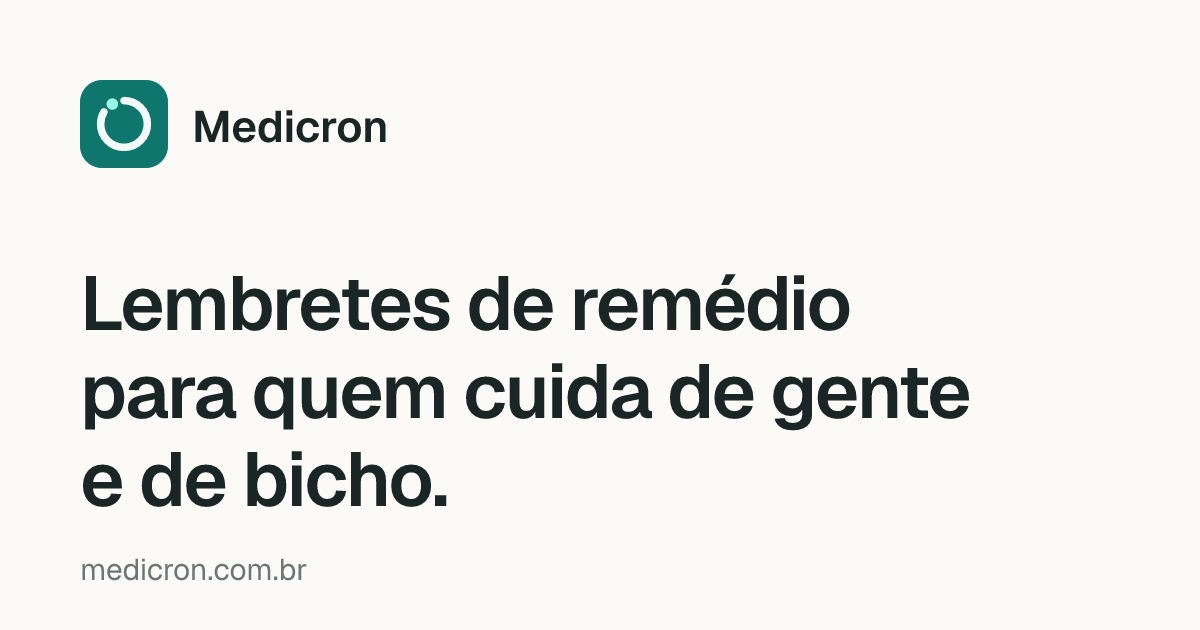
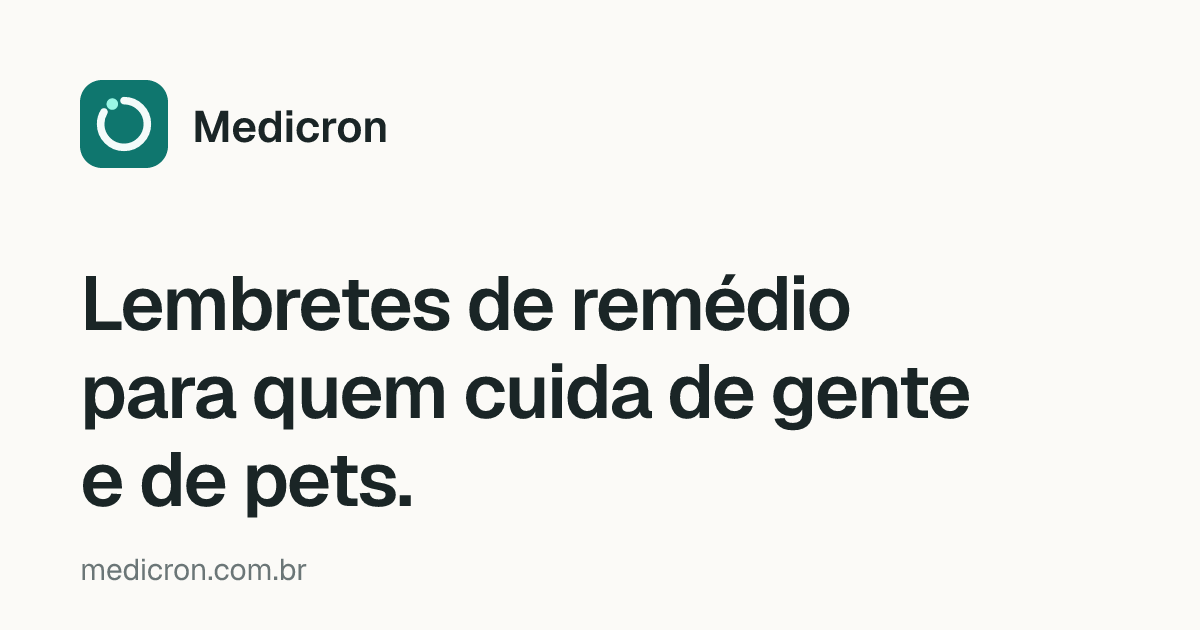
feat(app): botão Entrar em contorno com ícone; 'bicho' vira 'pets'

Changed region(s): [[0.2467, 0.7238, 0.37, 0.8143], [0.185, 0.7841, 0.2158, 0.8143], [0.185, 0.7238, 0.2158, 0.754]]

diff --git a/apps/app/site/index.template.html b/apps/app/site/index.template.html
@@ -17,7 +17,7 @@
 <meta property="og:image" content="{{ORIGIN}}/landing/og.png">
 <meta property="og:image:width" content="1200">
 <meta property="og:image:height" content="630">
-<meta property="og:image:alt" content="Medicron: lembretes de remédio para quem cuida de gente e de bicho.">
+<meta property="og:image:alt" content="Medicron: lembretes de remédio para quem cuida de gente e de pets.">
 <meta name="twitter:card" content="summary_large_image">
 <script type="application/ld+json">{{JSONLD}}</script>
 <link rel="icon" href="/favicon.ico">
@@ -29,12 +29,12 @@
 <a class="skip" href="#conteudo">Pular para o conteúdo</a>
 <header class="top">
   <a class="mark" href="/" aria-label="Medicron, página inicial"><svg viewBox="0 0 64 64" fill="none" aria-hidden="true"><rect width="64" height="64" rx="16" fill="var(--primary)"/><circle cx="32" cy="32" r="17" stroke="var(--primary-foreground)" stroke-width="5.5" stroke-linecap="round" stroke-dasharray="89 18" transform="rotate(-90 32 32)"/><circle cx="23.5" cy="17.5" r="4.2" fill="#99f6e4"/></svg><span>Medicron</span></a>
-  <a class="lnk" href="/entrar">Entrar</a>
+  <a class="enter" href="/entrar"><svg viewBox="0 0 24 24" fill="none" stroke="currentColor" stroke-width="2" stroke-linecap="round" stroke-linejoin="round" aria-hidden="true"><path d="M15 3h4a2 2 0 0 1 2 2v14a2 2 0 0 1-2 2h-4"/><path d="m10 17 5-5-5-5"/><path d="M15 12H3"/></svg><span>Entrar</span></a>
 </header>
 <main id="conteudo">
   <section class="hero">
     <div class="hero-text">
-      <h1>Lembretes de remédio para quem cuida de gente e de bicho.</h1>
+      <h1>Lembretes de remédio para quem cuida de gente e de pets.</h1>
       <p class="lead">O Medicron avisa na hora de cada dose e mostra para a família inteira o que já foi dado, para ninguém esquecer nem repetir.</p>
       <p class="actions"><a class="btn" href="/cadastrar">Criar conta</a><a class="lnk" href="/entrar">Já tenho conta →</a></p>
       <p class="small">{{AVAILABILITY}}</p>{{STORES}}

diff --git a/apps/app/tests/site.test.ts b/apps/app/tests/site.test.ts
@@ -12,7 +12,7 @@ describe("conteúdo (texto exato da spec)", () => {
   const h = html();
   test("título, texto e rótulos", () => {
     for (const t of [
-      "Lembretes de remédio para quem cuida de gente e de bicho.",
+      "Lembretes de remédio para quem cuida de gente e de pets.",
       "O Medicron avisa na hora de cada dose e mostra para a família inteira o que já foi dado, para ninguém esquecer nem repetir.",
       "Criar conta", "Já tenho conta →", "Em poucas palavras",
       "O Medicron é um organizador de lembretes. Não faz diagnóstico nem indica doses ou tratamentos: siga a orientação do seu médico ou veterinário.",
@@ -173,5 +173,15 @@ describe("buildSite", () => {
       expect(fs.statSync(file).size).toBeGreaterThan(1000);
       expect(fs.statSync(file).size).toBeLessThanOrEqual(40 * 1024);
     }
+  });
+});
+
+describe("texto e botão do topo", () => {
+  const h = renderSite({}, loadSources(path.resolve(__dirname, "..")));
+  test("não usa a palavra \"bicho\" em lugar nenhum", () => {
+    expect(h.toLowerCase()).not.toContain("bicho");
+  });
+  test("Entrar é um botão de contorno com ícone, não um link simples", () => {
+    expect(h).toMatch(/<a class="enter" href="\/entrar"><svg[^>]*aria-hidden="true"[\s\S]*?<\/svg><span>Entrar<\/span><\/a>/);
   });
 });

diff --git a/apps/app/site/site.css b/apps/app/site/site.css
@@ -14,6 +14,9 @@ a:focus-visible{outline:2px solid var(--primary);outline-offset:3px;border-radiu
 .mark svg{width:26px;height:26px;display:block}
 .lnk{font-weight:400;text-decoration:underline;text-underline-offset:4px;text-decoration-thickness:1.5px;text-decoration-color:var(--border);display:inline-flex;align-items:center;min-height:44px}
 .lnk:hover{text-decoration-color:currentColor}
+.enter{display:inline-flex;align-items:center;gap:8px;min-height:44px;padding:0 18px 0 16px;border-radius:999px;border:1px solid color-mix(in oklab,var(--foreground) 22%,transparent);background:var(--background);color:var(--foreground);font-weight:600;font-size:15px;text-decoration:none}
+.enter svg{width:18px;height:18px;display:block;color:var(--primary)}
+.enter:hover{border-color:var(--primary);color:var(--primary)}
 .hero{display:grid;grid-template-columns:minmax(0,1fr) 340px;gap:64px;align-items:center;padding:64px 72px 84px;margin:8px 0 72px;border-radius:32px;overflow:hidden;background:linear-gradient(110deg,oklch(0.955 0.03 195) 0%,oklch(0.975 0.01 95) 48%,oklch(0.95 0.03 235) 100%)}
 .hero-text{position:relative;z-index:2}
 h1{font-size:52px;line-height:1.06;letter-spacing:-.03em;font-weight:600;margin:0 0 28px;text-wrap:balance}

diff --git a/apps/app/scripts/build-site.ts b/apps/app/scripts/build-site.ts
@@ -59,7 +59,7 @@ function jsonLd(origin: string): string {
     inLanguage: "pt-BR",
     applicationCategory: "HealthApplication",
     operatingSystem: "Web",
-    description: "Lembretes de remédio, vacina e cuidado para quem cuida de gente e de bicho, com a família na mesma conta.",
+    description: "Lembretes de remédio, vacina e cuidado para quem cuida de gente e de pets, com a família na mesma conta.",
     offers: { "@type": "Offer", price: "0", priceCurrency: "BRL" },
   }).replace(/</g, "\\u003c");
 }

diff --git a/apps/app/tests/site-quality.test.ts b/apps/app/tests/site-quality.test.ts
@@ -36,7 +36,7 @@ describe("alvos de toque (≥ 44 px)", () => {
     const m = style.match(new RegExp(`(?:^|[}\\s,])${selector.replace(/[.]/g, "\\.")}\\{[^}]*min-height:(\\d+)px`));
     return m ? Number(m[1]) : 0;
   };
-  test.each([".btn", ".lnk", ".mark", ".links a"])("%s", (sel) => {
+  test.each([".btn", ".lnk", ".enter", ".mark", ".links a"])("%s", (sel) => {
     expect(minHeight(sel)).toBeGreaterThanOrEqual(44);
   });
 });

diff --git a/docs/superpowers/specs/2026-11-10-hotsite-design.md b/docs/superpowers/specs/2026-11-10-hotsite-design.md
@@ -32,7 +32,7 @@ Serve também como a "URL de marketing" exigida pela App Store e como porta de e
 ## Estrutura da página (largura máxima de 1080 px, margens de 32 px; hero em duas colunas)
 
 1. **Topo:** logo pequeno (o do app) e "Medicron", à esquerda; "Entrar" em texto, à direita. Sem barra, sem menu.
-2. **Título e texto** (alinhados à esquerda, bastante respiro acima): "Lembretes de remédio para quem cuida de gente e de bicho." / "O Medicron avisa na hora de cada dose e mostra para a família inteira o que já foi dado, para ninguém esquecer nem repetir."
+2. **Título e texto** (alinhados à esquerda, bastante respiro acima): "Lembretes de remédio para quem cuida de gente e de pets." / "O Medicron avisa na hora de cada dose e mostra para a família inteira o que já foi dado, para ninguém esquecer nem repetir."
 3. **Ação:** botão **Criar conta** (`/cadastrar`, o único elemento sólido da página) e link **Já tenho conta →** (`/entrar`). Abaixo, uma linha pequena e **verdadeira** sobre onde funciona (ver "Disponibilidade").
 4. **A tela do app:** a tela Hoje, com a legenda "A tela Hoje: o que falta e o que atrasou." Exemplo: conta "Família Souza", "3 de 5 doses feitas hoje", Vermífugo · Mel · 07:00 (Feita), Vitamina D · Pedro · 08:00 (Atrasada), Losartana · Ana · 12:00 (Agora), em ordem de horário.
 5. **"Em poucas palavras":** lista de definições (termo à esquerda, explicação à direita, filete entre as linhas): Lembretes; Gente e pets; Em família; No iPhone (widgets na tela inicial e de bloqueio); Seus dados (apagar a conta e tudo o que cadastrou, no app).
